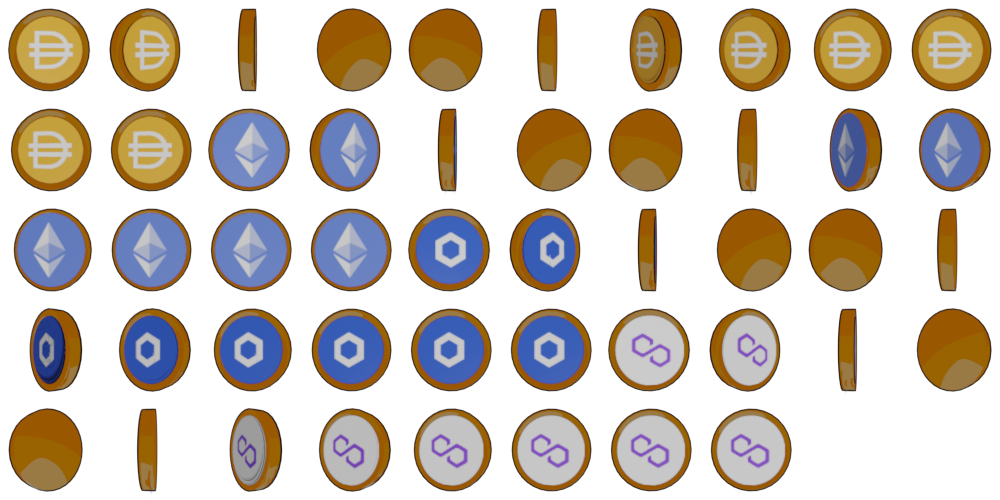
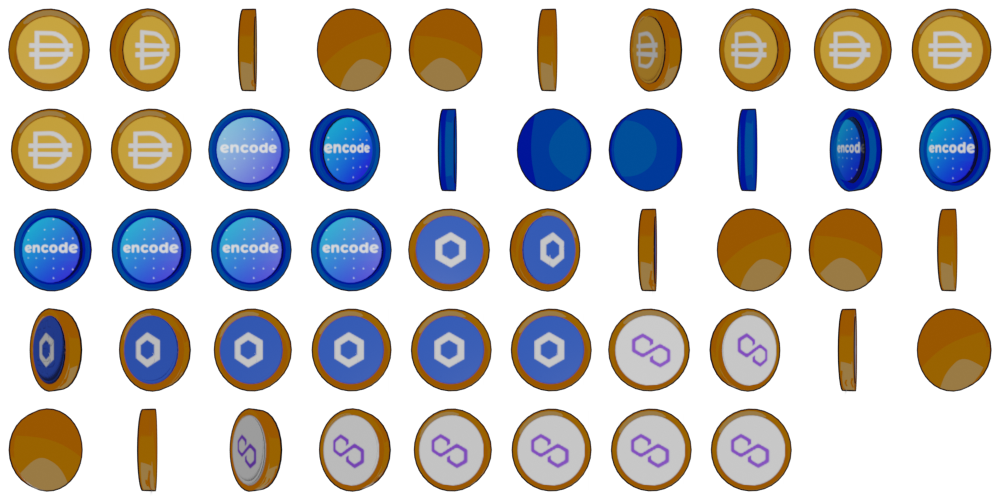
included encode coins and animations

diff --git a/components/gameComponents/elements/Coin.tsx b/components/gameComponents/elements/Coin.tsx
@@ -1,7 +1,7 @@
 import { sharedInstance as events } from "../EventCenter";
 import { CustomGameScene } from "../SocketClient";
 
-export type CoinType = "dai" | "chainlink" | "matic" | "eth";
+export type CoinType = "dai" | "chainlink" | "matic" | "eth" | "encode";
 
 export class Coins {
   coins: Map<string, Phaser.Physics.Matter.Sprite> = new Map();
@@ -9,13 +9,17 @@ export class Coins {
 
   constructor(scene: CustomGameScene) {
     // Setup coins
-    ["dai", "chainlink", "matic", "eth"].map((coinType) => {
+    ["dai", "chainlink", "matic", "eth", "encode"].map((coinType) => {
       scene.data.set(coinType, 0);
     });
 
     // add pickup sound
     try {
       this.pickupSound = scene.sound.get("coinPickup");
+      if (!this.pickupSound) {
+        scene.sound.add("coinPickup");
+        this.pickupSound = scene.sound.get("coinPickup");
+      }
     } catch (err) {
       console.log(err);
       scene.sound.add("coinPickup");
@@ -59,12 +63,12 @@ export class Coins {
       repeat: -1,
     });
     scene.anims.create({
-      key: "EthSpin",
+      key: "EncodeSpin",
       frameRate: 5,
       frames: scene.anims.generateFrameNames("coin", {
         start: 1,
         end: 12,
-        prefix: "coinSpinEth00",
+        prefix: "coinSpinEncode00",
         suffix: ".png",
         zeroPad: 2,
       }),
@@ -82,10 +86,6 @@ export class Coins {
     coin.setDisplaySize(70, 70);
     coin.setName("coin");
     switch (coinType) {
-      case "eth":
-        coin.anims.play("EthSpin", true);
-        coin.setData("id", `EthCoin${currentCoinLength + 1}`);
-        break;
       case "matic":
         coin.anims.play("MaticSpin", true);
         coin.setData("id", `MaticCoin${currentCoinLength + 1}`);
@@ -97,6 +97,10 @@ export class Coins {
       case "dai":
         coin.anims.play("spin", true);
         coin.setData("id", `DaiCoin${currentCoinLength + 1}`);
+        break;
+      case "encode":
+        coin.anims.play("EncodeSpin", true);
+        coin.setData("id", `EncodeCoin${currentCoinLength + 1}`);
         break;
       default:
         break;
@@ -111,7 +115,9 @@ export class Coins {
     const updated = current + 1;
     scene.data.set(coinType, updated);
     events.emit("coinCollected", { coinType, coinCount: updated });
-    scene.socketClient.socket.emit("coinCollected", coin.getData("id"));
+    if (scene.socketClient) {
+      scene.socketClient.socket.emit("coinCollected", coin.getData("id"));
+    }
     this.playSound();
     coin.destroy();
   }
@@ -122,6 +128,8 @@ export class Coins {
   }
 
   playSound() {
-    this.pickupSound.play();
+    if (this.pickupSound) {
+      this.pickupSound.play();
+    }
   }
 }

diff --git a/components/gameComponents/scenes/CastleTestScene.tsx b/components/gameComponents/scenes/CastleTestScene.tsx
@@ -1,7 +1,9 @@
 import "phaser";
 import Acid from "../elements/Acid";
 import { PlayerController } from "../playerController";
+import { Coins, CoinType } from "../elements/Coin";
 import { sharedInstance as events } from "../EventCenter";
+import SocketClient from "../SocketClient";
 
 type gameState = "waiting" | "running" | "end";
 
@@ -14,6 +16,8 @@ export default class CastleTestScene extends Phaser.Scene {
   start!: { x: number; y: number };
   loading: boolean = true;
   timer!: Phaser.Time.TimerEvent;
+  coins!: Coins;
+  socketClient!: SocketClient;
   gameId!: string;
   level!: string;
   gameState: gameState = "waiting";
@@ -65,6 +69,7 @@ export default class CastleTestScene extends Phaser.Scene {
   }
 
   create() {
+    this.coins = new Coins(this);
     // create the tile map instance
     const map = this.make.tilemap({ key: "castle_level" });
     // add the tileset to the map
@@ -121,6 +126,10 @@ export default class CastleTestScene extends Phaser.Scene {
         case "acid":
           this.dangerZone = new Acid(this, x, y);
           break;
+        case "coin":
+          const coinType: CoinType = element.properties[0]?.value;
+          this.coins.addCoin(this, x, y, coinType);
+          break;
         default:
           break;
       }
@@ -142,6 +151,10 @@ export default class CastleTestScene extends Phaser.Scene {
         if (other.gameObject?.name === "acidSprite") {
           this.dangerZone.meltSound();
           this.player.stateMachine.transition("melt");
+          return;
+        }
+        if (other.gameObject?.name === "coin") {
+          this.coins.pickupCoin(this, other.gameObject);
           return;
         }
         if (other.gameObject?.name === "finish") {

diff --git a/components/gameComponents/scenes/CastleScene.tsx b/components/gameComponents/scenes/CastleScene.tsx
@@ -1,11 +1,6 @@
 import "phaser";
 import { Coins, CoinType } from "../elements/Coin";
 import Acid from "../elements/Acid";
-import {
-  createPlatform,
-  moveHorizontal,
-  moveVertical,
-} from "../elements/Platform";
 import { PlayerController } from "../playerController";
 import SocketClient from "../SocketClient";
 import { sharedInstance as events } from "../EventCenter";
